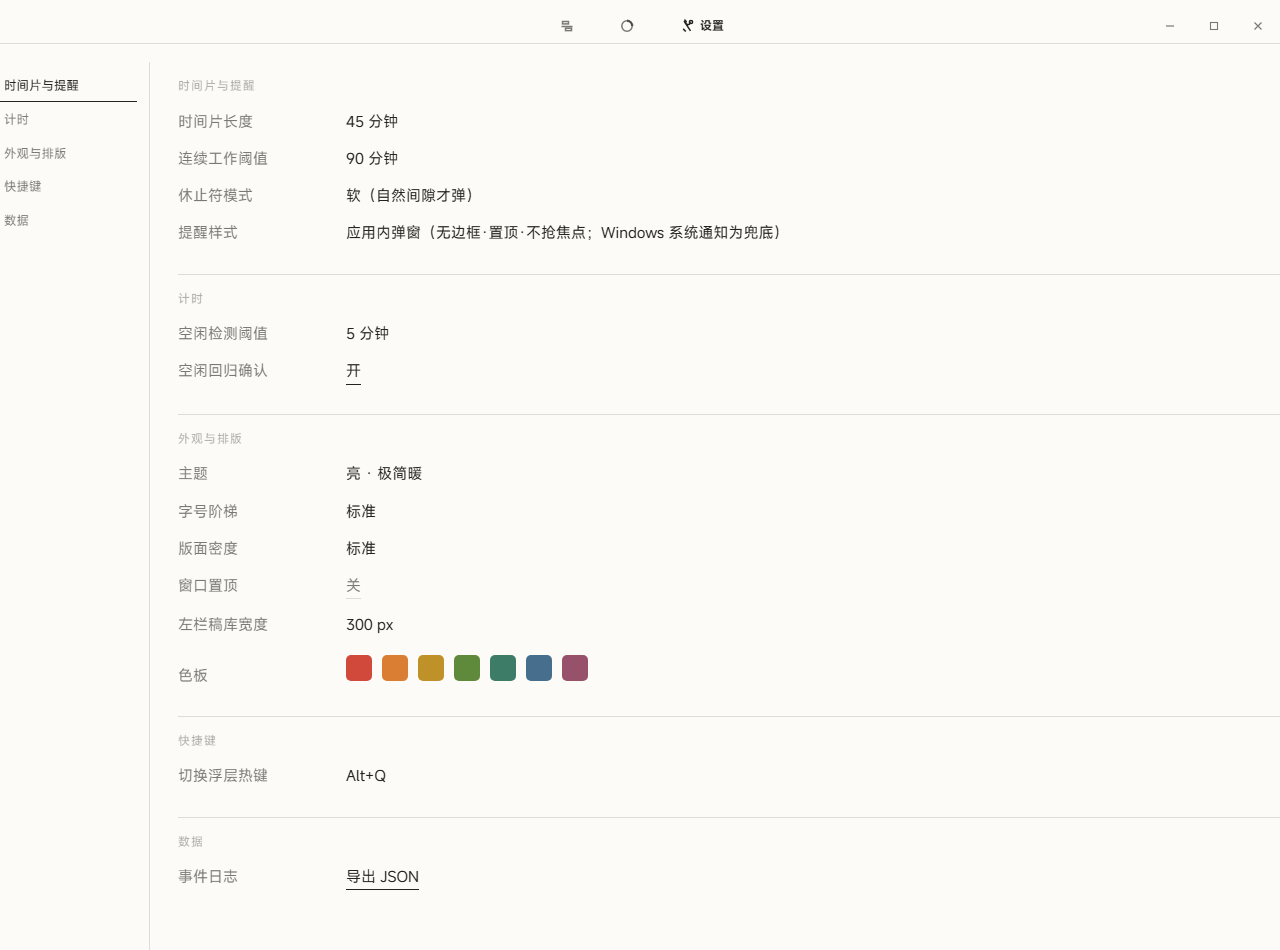
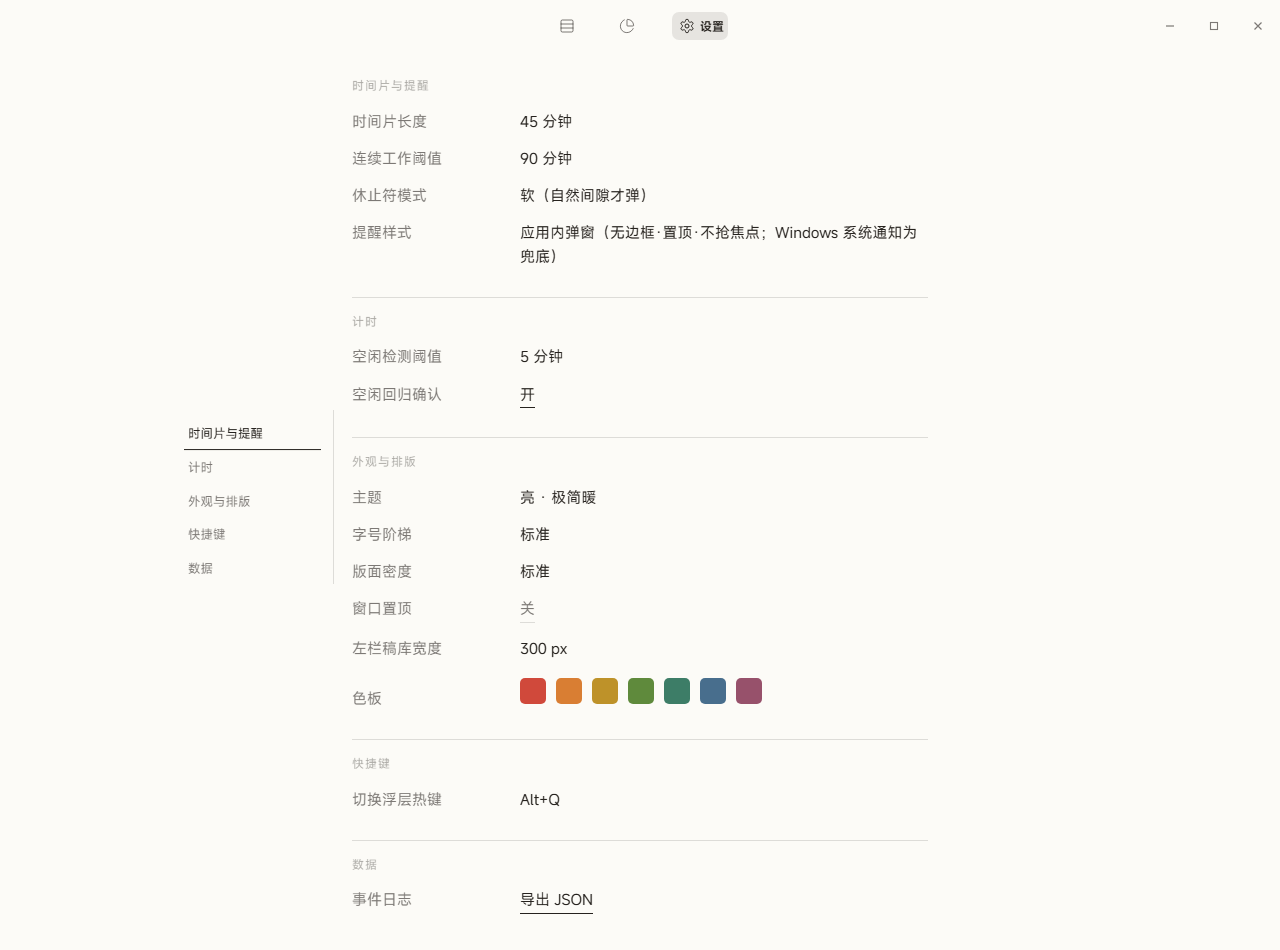
修复：v1.2.1 顶栏hover与同色/设置导航布局/日视角锚点与增量滚动/滚动条贴右缘

diff --git a/src/components/TitleBar.tsx b/src/components/TitleBar.tsx
@@ -18,10 +18,10 @@ const TABS: { key: Tab; label: string; icon: React.ReactNode }[] = [
     key: "board",
     label: "进程",
     icon: (
-      <svg viewBox="0 0 16 16" fill="none" stroke="currentColor" strokeWidth="1.5">
-        <path d="M2.5 8.5h11" />
-        <rect x="3.5" y="3.5" width="6" height="2.4" />
-        <rect x="6.5" y="10.2" width="6" height="2.4" />
+      <svg viewBox="0 0 24 24" fill="none" stroke="currentColor" strokeWidth="1.5" strokeLinecap="round" strokeLinejoin="round">
+        <rect width="18" height="18" x="3" y="3" rx="2" />
+        <path d="M3 9h18" />
+        <path d="M3 15h18" />
       </svg>
     ),
   },
@@ -29,9 +29,9 @@ const TABS: { key: Tab; label: string; icon: React.ReactNode }[] = [
     key: "stats",
     label: "统计",
     icon: (
-      <svg viewBox="0 0 16 16" fill="none" stroke="currentColor" strokeWidth="1.5">
-        <circle cx="8" cy="8" r="5.2" />
-        <path d="M8 2.8A5.2 5.2 0 0 1 13.2 8" strokeWidth="2.4" />
+      <svg viewBox="0 0 24 24" fill="none" stroke="currentColor" strokeWidth="1.5" strokeLinecap="round" strokeLinejoin="round">
+        <path d="M21 12c.552 0 1.005-.449.95-.998a10 10 0 0 0-8.953-8.951c-.55-.055-.998.398-.998.95v8a1 1 0 0 0 1 1z" />
+        <path d="M21.21 15.89A10 10 0 1 1 8 2.83" />
       </svg>
     ),
   },
@@ -39,9 +39,9 @@ const TABS: { key: Tab; label: string; icon: React.ReactNode }[] = [
     key: "settings",
     label: "设置",
     icon: (
-      <svg viewBox="0 0 16 16" fill="none" stroke="currentColor" strokeWidth="1.5">
-        <path d="M5 3.2 11.5 12.8M4.2 10.9l2.6 2.6M11.8 4.6l-1.7 1.7a2.2 2.2 0 0 1-3-3L5.4 1.6" />
-        <circle cx="12" cy="4" r="1.6" />
+      <svg viewBox="0 0 24 24" fill="none" stroke="currentColor" strokeWidth="1.5" strokeLinecap="round" strokeLinejoin="round">
+        <path d="M12.22 2h-.44a2 2 0 0 0-2 2v.18a2 2 0 0 1-1 1.73l-.43.25a2 2 0 0 1-2 0l-.15-.08a2 2 0 0 0-2.73.73l-.22.38a2 2 0 0 0 .73 2.73l.15.1a2 2 0 0 1 1 1.72v.51a2 2 0 0 1-1 1.74l-.15.09a2 2 0 0 0-.73 2.73l.22.38a2 2 0 0 0 2.73.73l.15-.08a2 2 0 0 1 2 0l.43.25a2 2 0 0 1 1 1.73V20a2 2 0 0 0 2 2h.44a2 2 0 0 0 2-2v-.18a2 2 0 0 1 1-1.73l.43-.25a2 2 0 0 1 2 0l.15.08a2 2 0 0 0 2.73-.73l.22-.39a2 2 0 0 0-.73-2.73l-.15-.08a2 2 0 0 1-1-1.74v-.5a2 2 0 0 1 1-1.74l.15-.09a2 2 0 0 0 .73-2.73l-.22-.38a2 2 0 0 0-2.73-.73l-.15.08a2 2 0 0 1-2 0l-.43-.25a2 2 0 0 1-1-1.73V4a2 2 0 0 0-2-2z" />
+        <circle cx="12" cy="12" r="3" />
       </svg>
     ),
   },
@@ -111,10 +111,18 @@ export const TitleBar = memo(function TitleBar() {
     const p = Math.max(-0.08, Math.min(1.12, pRaw));
     const t = Math.max(0, Math.min(1, pRaw));
     const pillW = parseFloat(el.dataset.pillW ?? "64");
+    const isActive = TABS[i].key === tab;
     el.style.width = `${lerp(36, pillW, p)}px`;
     const pill = el.querySelector<HTMLElement>(".nav-pill");
     if (pill) {
-      pill.style.setProperty("--pill-a", `${smooth(t / 0.4) * 100}%`);
+      const s0 = springs.current[i];
+      if (isActive || s0.p !== s0.target || s0.v !== 0) {
+        // 选中项/弹簧进行中：pill 染底封顶 ~10%（浅灰 pill + 深字）
+        pill.style.setProperty("--pill-a", `${smooth(t / 0.4) * 10}%`);
+      } else {
+        // 未选中且静止：清内联，hover 交还 CSS
+        pill.style.removeProperty("--pill-a");
+      }
     }
     const label = el.querySelector<HTMLElement>(".nav-label");
     if (label) {

diff --git a/src/styles/app.css b/src/styles/app.css
@@ -1140,9 +1140,12 @@ body:has(.overlay-card) {
 .stats-scroll {
   flex: 1;
   overflow-y: auto;
+  width: 100%;
+  padding: 14px 0 80px;
+}
+.stats-measure {
   width: clamp(480px, 45%, 720px);
   margin: 0 auto;
-  padding: 14px 0 80px;
   display: flex;
   flex-direction: column;
   gap: 26px;
@@ -1333,12 +1336,16 @@ body:has(.overlay-card) {
 /* ================= M4 · 设置页 ================= */
 .settings-page {
   height: 100%;
-  display: flex;
   overflow: hidden;
+  position: relative;
   padding-top: 18px;
 }
-.settings-nav {
-  flex: none;
+.settings-nav.floating {
+  position: absolute;
+  top: 50%;
+  transform: translateY(-50%);
+  /* 浮在内容列左侧紧邻（内容列居中，导航贴其左缘） */
+  left: calc(50% - clamp(240px, 22.5%, 360px) - 168px);
   width: 150px;
   border-right: 1px solid var(--hairline);
   display: flex;
@@ -1365,9 +1372,13 @@ body:has(.overlay-card) {
   .settings-nav { display: none; }
 }
 .settings-scroll {
-  flex: 1;
+  height: 100%;
   overflow-y: auto;
-  padding: 0 0 120px 28px;
+  padding: 0 0 120px;
+}
+.settings-scroll > .set-sec {
+  width: clamp(480px, 45%, 720px);
+  margin: 0 auto;
 }
 .set-sec {
   padding: 14px 0 22px;
@@ -1526,8 +1537,7 @@ body:has(.overlay-card) {
   overflow-y: auto;
   /* v1.2：自由滚动，去 mandatory 吸附；底部垫高让最后一天可读满 */
   padding-bottom: 240px;
-  width: clamp(480px, 45%, 720px);
-  margin: 0 auto;
+  width: 100%;
   /* 滚动内容顶/底缘淡出遮罩 */
   mask-image: linear-gradient(to bottom, transparent, black 28px, black calc(100% - 28px), transparent);
   -webkit-mask-image: linear-gradient(to bottom, transparent, black 28px, black calc(100% - 28px), transparent);
@@ -1624,6 +1634,7 @@ body:has(.overlay-card) {
   padding-left: 2px;
 }
 .morph-tab.active { color: var(--ink); }
+.morph-tab.active .nav-pill { --pill-a: 10%; } /* 静止态封顶 10%；弹簧进行中由内联接管 */
 .morph-tab .rest-mark { position: relative; width: 9px; height: 11px; margin-left: 2px; }
 
 /* v1.2 拖拽落点虚影 */

diff --git a/src/pages/stats/DayGridView.tsx b/src/pages/stats/DayGridView.tsx
@@ -33,7 +33,8 @@ export function DayGridView({
     void data.qFirstDay().then((d) => setFirstDay(d ?? today));
   }, [today]);
 
-  const days = useMemo(() => {
+  // 全部可及日（上界=最早有记录，下界=今天）
+  const allDays = useMemo(() => {
     if (!firstDay) return [];
     const out: string[] = [];
     let cur = firstDay;
@@ -46,15 +47,34 @@ export function DayGridView({
     return out;
   }, [firstDay, today]);
 
-  // 进场滚到锚点日
+  // 增量生长：窗口 [startIdx, 末尾]；初始锚日前后几天；滚近顶部 prepend 更早的天
+  const anchorIdx = useMemo(() => Math.max(0, allDays.indexOf(day)), [allDays, day]);
+  const [startIdx, setStartIdx] = useState<number | null>(null);
   useEffect(() => {
-    if (!days.length) return;
+    if (allDays.length && startIdx === null) setStartIdx(Math.max(0, anchorIdx - 3));
+  }, [allDays, anchorIdx, startIdx]);
+  const days = startIdx === null ? [] : allDays.slice(startIdx);
+
+  // 进场滚到锚点日（仅一次）
+  useEffect(() => {
+    if (!days.length || startIdx === null) return;
     const el = scrollRef.current?.querySelector(`[data-day="${day}"]`);
     el?.scrollIntoView({ block: "start" });
     // eslint-disable-next-line react-hooks/exhaustive-deps
-  }, [days.length]);
+  }, [startIdx !== null]);
 
   const onScroll = () => {
+    // 滚近顶部 → prepend 更早的天，scrollTop 补偿锚定（杜绝跳动）
+    const root = scrollRef.current;
+    if (root && root.scrollTop < 200 && startIdx !== null && startIdx > 0) {
+      const before = root.scrollHeight;
+      const newStart = Math.max(0, startIdx - 10);
+      setStartIdx(newStart);
+      requestAnimationFrame(() => {
+        const delta = root.scrollHeight - before;
+        if (delta > 0) root.scrollTop += delta;
+      });
+    }
     if (idleTimer.current) clearTimeout(idleTimer.current);
     idleTimer.current = setTimeout(() => {
       const root = scrollRef.current;

diff --git a/src/pages/stats/StatsPage.tsx b/src/pages/stats/StatsPage.tsx
@@ -35,7 +35,7 @@ export function StatsPage() {
 
       <div key={view} className={`view-fade ${view === "day" ? "view-stretch" : "stats-scroll"}`}>
         {view === "month" && (
-          <>
+          <div className="stats-measure">
             <div className="stats-month-head">
               <span className="num stats-month-title">{ay} 年 {am} 月</span>
               {anchor !== today && (
@@ -54,7 +54,7 @@ export function StatsPage() {
             />
             <BigRing day={anchor} />
             <DayViewSection day={anchor} />
-          </>
+          </div>
         )}
 
         {view === "day" && (
@@ -66,7 +66,8 @@ export function StatsPage() {
         )}
 
         {view === "year" && (
-          <YearView
+          <div className="stats-measure">
+            <YearView
             year={ay}
             onYear={(y) => setAnchor(`${y}-01-01`)}
             onDrillMonth={(y, m) => {
@@ -74,6 +75,7 @@ export function StatsPage() {
               setView("month");
             }}
           />
+          </div>
         )}
       </div>
     </div>

diff --git a/src/pages/settings/SettingsPage.tsx b/src/pages/settings/SettingsPage.tsx
@@ -272,7 +272,7 @@ export function SettingsPage() {
 
   return (
     <div className="settings-page" ref={rootRef} data-testid="settings-page">
-      <nav className="settings-nav" data-testid="chips-nav">
+      <nav className="settings-nav floating" data-testid="chips-nav">
         {SECTIONS.map(([id, label]) => (
           <button
             key={id}

diff --git a/docs/deviation.md b/docs/deviation.md
@@ -155,3 +155,9 @@ B1 我归因为"拖拽区盖导航"——源码核查排除：Tauri 2.11.5 drag.
 3. 断点卡复用 toast-in 动画（位移+透明）气质不符——独立"行下方展开"入场。
 4. 统计页日视角 calc(100vh-130px) 魔数溢出——改实测布局链计算；scroll-snap mandatory 在内容不等高时弹跳——去吸附改自由滚动。
 5. 设置页 scroll-spy 用 IntersectionObserver 批次结果写死末组——改滚动监听取"最靠顶可见组"。
+
+### D38 · v1.2.1 定点修复口径
+- 顶栏 hover 失效根因：弹簧 renderItem 每帧给所有项写内联 --pill-a（未选中=0%）压过 CSS hover 规则；修法=弹簧只写选中项/进行中项，静止未选中清内联交还 CSS；pill 染底封顶 10%（浅灰 pill + 深字）；图标换 Lucide 字形（rows-3/chart-pie/settings，viewBox 24 stroke 1.5）。
+- 日视角锚点=月历选中/上次停留日（初始装载锚日-3 起）；增量生长 prepend 用 scrollTop 补偿（prepend 前后 scrollHeight 差补 scrollTop），视口零跳动。
+- 设置页导航浮于内容列左侧紧邻、上下居中（absolute + translateY(-50%)），内容列恢复居中；spy 沿用 B 步"最靠顶可见组+触底末组"。
+- 统计三视角滚动容器拉通全宽、内容 margin auto 居中，滚动条贴窗口右缘；进程页/设置页不动。
